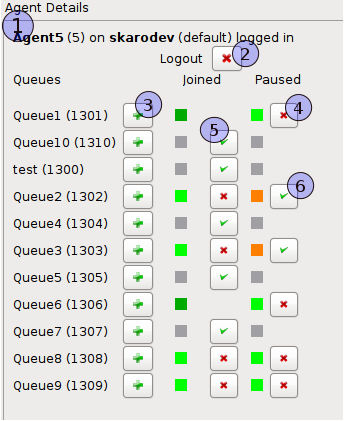
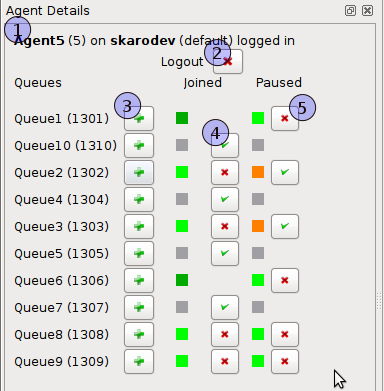
update picture and translation

diff --git a/source/contact_center/supervision/supervision.rst b/source/contact_center/supervision/supervision.rst
@@ -141,22 +141,20 @@ Agent Details
 ^^^^^^^^^^^^^
 **General information**
 
-Display advanced informations of an agent and permit to login/logoff, add/remove to a queue, and pause/unpause.
+Display advanced informations of an agent and enable to login/logoff, add/remove to a queue, and pause/unpause.
 
 .. figure:: images/agent_details.png
 
    Agent Details
 
-1. This is the status information on agent
+1. This is the status information of agent
 2. Button to login/logoff agent
 3. Supervision button of the Xlet "Calls of a queue"
-4. Pause/Unpause button to the queue of the field 
-5. Add/Remove agent to the queue
-6. Pause/Unpause button to the queue of the field
+4. Pause/Unpause button for given queue
+5. Add/Remove agent for given queue
 
-Difference between 4 and 6:
-You can't add/remove this agent to queue1 because there is hard linked in configuration
-   
+You can't add/remove this agent to queue1/queue6 because there is hard linked in configuration (WEBI)
+
 
 Link XiVO Client presence to agent presence
 ===========================================
